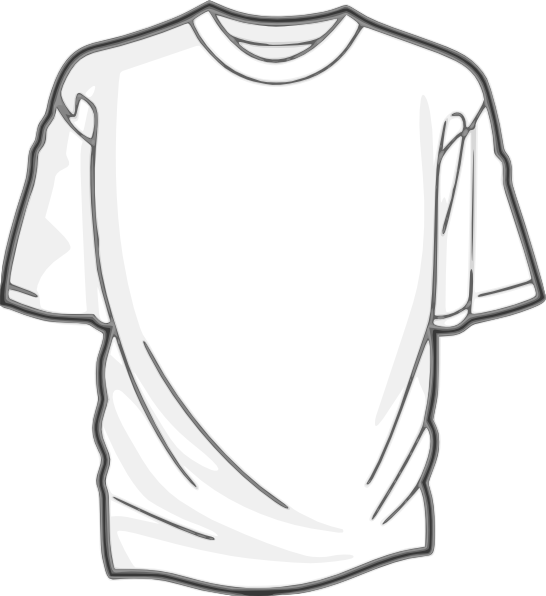
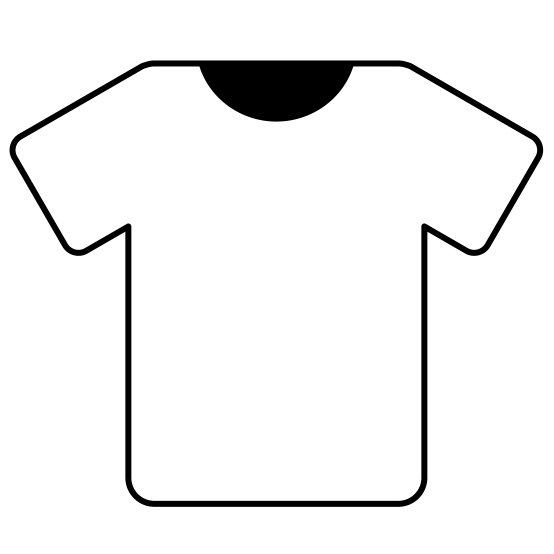
updated build-closet page

diff --git a/src/pages/build-closet/build-closet.ts b/src/pages/build-closet/build-closet.ts
@@ -1,5 +1,6 @@
 import { Component } from '@angular/core';
-import { NavController } from 'ionic-angular';
+import { NavController, Slides } from 'ionic-angular';
+
 
 /*
   Generated class for the BuildCloset page.
@@ -7,29 +8,33 @@ import { NavController } from 'ionic-angular';
   See http://ionicframework.com/docs/v2/components/#navigation for more info on
   Ionic pages and navigation.
 */
+
+
 @Component({
   selector: 'page-build-closet',
   templateUrl: 'build-closet.html'
 })
 export class BuildCloset {
 
-	selectedShirtType: number;
-	selectedShirtTypeImage: string;
+	selectedShirtTypeImage: string = "../assets/img/default.jpg";
 	shirtTypes: any[];
 	colors: any[];
 	selectedColor: string;
+	selectedShirtTypeObject: any;
+	addedItem: string = '';
 
+	mySlideOptions = {
+	    loop: true
+  	};
 
 	constructor(public navCtrl: NavController) {
-		this.selectedShirtTypeImage = "../assets/img/t-shirt.png";
-		this.selectedShirtType = 0;
-		this.shirtTypes = [{id: 1, type: 'T-Shirt'},
-			{id: 2, type: 'Classic'},
-			{id: 3, type: 'Polo'},
-			{id: 4, type: 'Henley'},
-			{id: 5, type: 'Turtleneck'},
-			{id: 6, type: 'Sweathshirt'},
-			{id: 7, type: 'Sweater'}];
+		this.shirtTypes = [{id: 1, type: 'T-Shirt', image: "../assets/img/t-shirt.png"},
+			{id: 2, type: 'Classic', image: "../assets/img/classicShirt.png"},
+			{id: 3, type: 'Polo', image: "../assets/img/polo.png"},
+			{id: 4, type: 'Henley', image: "../assets/img/t-shirt.png"},
+			{id: 5, type: 'Turtleneck', image: "../assets/img/turtleneck.png"},
+			{id: 6, type: 'Sweathshirt', image: "../assets/img/sweatshirt.png"},
+			{id: 7, type: 'Sweater', image: "../assets/img/sweater.png"}];
 
 		this.colors = [{id: 1, hex: "#FFFFFF", name: 'White'},
 			{id: 2, hex: "#F5F5DC", name: 'Beige'},
@@ -50,6 +55,18 @@ export class BuildCloset {
 
  	selectColor(color) {
  		this.selectedColor = color.hex;
+ 	}
+
+ 	selectShirtType(shirtType){
+ 		this.selectedShirtTypeImage = shirtType.image;
+ 	}
+
+ 	addItems(quantity, color, type){
+ 		this.addedItem = this.addedItem + 
+ 			'<div>' +
+ 			'<img class="image" src="' + type + '" style="background-color: ' + color + '" />' +
+ 			'<text>' + quantity + '</text>' +  
+ 			'</div>';
  	}
 
   ionViewDidLoad() {

diff --git a/src/pages/build-closet/build-closet.html b/src/pages/build-closet/build-closet.html
@@ -18,20 +18,20 @@
 			<ion-col width-33>
 				<ion-item>
 			    	<ion-label stacked>Quantity</ion-label>
-			    	<ion-input type="text"></ion-input>
+			    	<ion-input type="text" [(ngModel)]="selectedQuantity"></ion-input>
 				  </ion-item>
 			</ion-col>
 			<ion-col>
 				<ion-item>
 					<ion-label stacked>Type</ion-label>
-					<ion-select [(ngModel)]="selectedShirtType">
-						<ion-option *ngFor="let item of shirtTypes" value="{{item.id}}">{{item.type}}</ion-option>
+					<ion-select [(ngModel)]="selectedShirtTypeObject" (ionChange)="selectShirtType(selectedShirtTypeObject)">
+						<ion-option *ngFor="let item of shirtTypes" [value]="item">{{item.type}}</ion-option>
 					</ion-select>
 				</ion-item>
 			</ion-col>
 		</ion-row>
 		<ion-row class="colorRow">
-			<ion-slides loop>
+			<ion-slides [options]="mySlideOptions">
 				<ion-slide class="colors" 
 					*ngFor="let color of colors" 
 					[ngStyle]="{'background-color': color.hex}" 
@@ -39,11 +39,17 @@
 				</ion-slide>
 			</ion-slides>
 		</ion-row>
+		<ion-row [innerHtml]="addedItem | safeHtml" class="itemsRow">
+		</ion-row>
 	</ion-card>
 	<div class="nextButtonDiv">
+		<button ion-button round outline icon-right class="nextButton" (click)="addItems(selectedQuantity, selectedColor, selectedShirtTypeImage)">
+			Add
+			<ion-icon name="add-circle"></ion-icon>
+		</button>
 		<button ion-button round outline icon-right class="nextButton" (click)="pantsQuestion()">
 			Next
-			<ion-icon name="ion-arrow-forward"></ion-icon>
+			<ion-icon name="ios-arrow-forward"></ion-icon>
 		</button>
 	</div>
 </ion-content>

diff --git a/src/app/app.module.ts b/src/app/app.module.ts
@@ -1,4 +1,4 @@
-import { NgModule, ErrorHandler } from '@angular/core';
+import { NgModule, ErrorHandler, PipeTransform, Pipe } from '@angular/core';
 import { IonicApp, IonicModule, IonicErrorHandler } from 'ionic-angular';
 import { MyApp } from './app.component';
 import { AboutPage } from '../pages/about/about';
@@ -7,7 +7,15 @@ import { HomePage } from '../pages/home/home';
 import { TabsPage } from '../pages/tabs/tabs';
 import {ClosetPage} from '../pages/closet/closet';
 import {BuildCloset} from '../pages/build-closet/build-closet';
+import {DomSanitizer} from '@angular/platform-browser';
 
+@Pipe({ name: 'safeHtml'})
+export class SafeHtmlPipe implements PipeTransform  {
+  constructor(private sanitized: DomSanitizer) {}
+  transform(value) {
+    return this.sanitized.bypassSecurityTrustHtml(value);
+  }
+}
 @NgModule({
   declarations: [
     MyApp,
@@ -16,7 +24,8 @@ import {BuildCloset} from '../pages/build-closet/build-closet';
     HomePage,
     TabsPage,
     ClosetPage,
-    BuildCloset
+    BuildCloset,
+    SafeHtmlPipe
   ],
   imports: [
     IonicModule.forRoot(MyApp)

diff --git a/src/pages/build-closet/build-closet.scss b/src/pages/build-closet/build-closet.scss
@@ -18,7 +18,7 @@ $build-secondary: #FDEFEC;
 	}
 
 	.imageRow {
-		height: 55%;
+		height: 30%;
 
 		.image {
 			width: 60%;
@@ -46,6 +46,11 @@ $build-secondary: #FDEFEC;
 			margin: 1%;
 			box-shadow: inset 2px -7px 11px rgba(80, 92, 51, 0.71);
 		}
+	}
+
+	.itemsRow {
+		height: 20%;
+
 	}
 }
 

diff --git a/src/pages/home/home.ts b/src/pages/home/home.ts
@@ -21,6 +21,6 @@ export class HomePage {
   	setTimeout(() => {
   		loader.dismiss();
   		this.navCtrl.setRoot(BuildCloset);
-  	}, 5000);
+  	}, 500);
   }
 }
